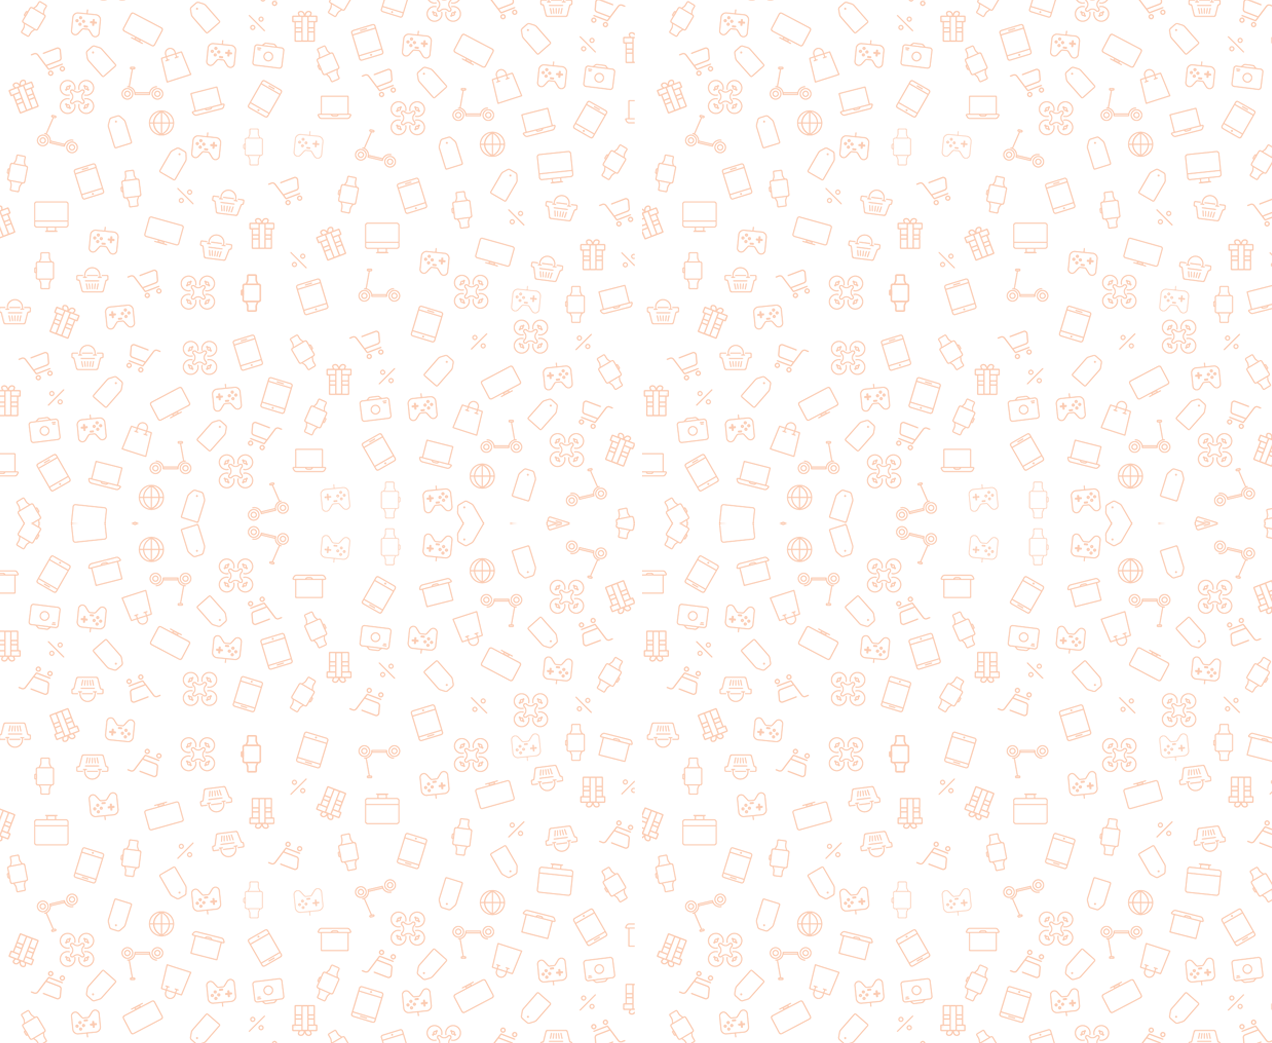
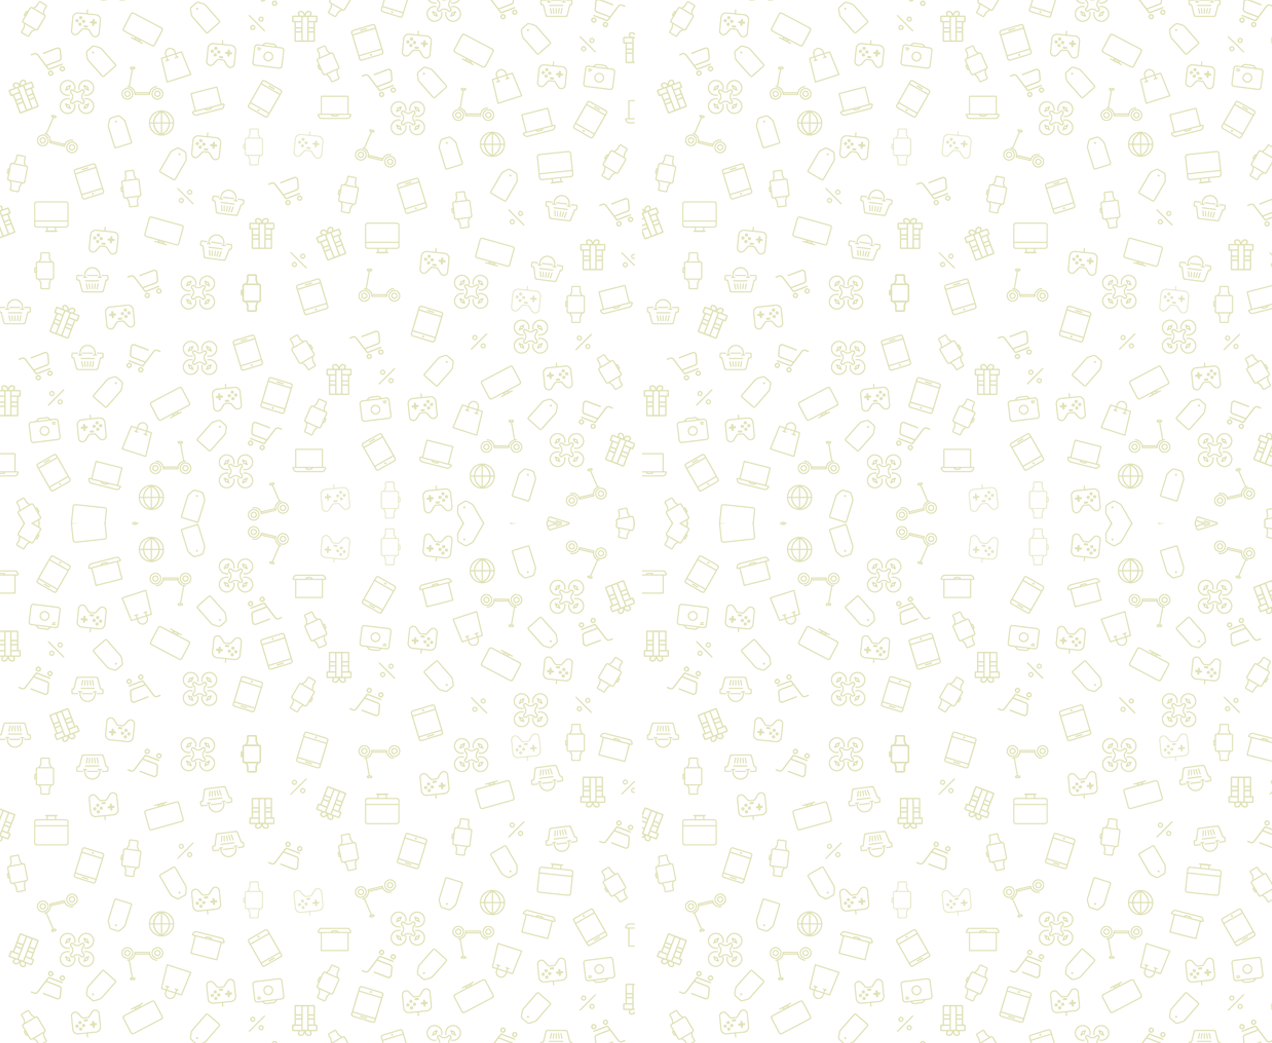
second

diff --git a/index.js b/index.js
@@ -5,5 +5,24 @@
 import {AppRegistry} from 'react-native';
 import App from './src/App';
 import {name as appName} from './app.json';
+import messaging from '@react-native-firebase/messaging';
+import PushNotification, {Importance} from 'react-native-push-notification';
+
+  PushNotification.createChannel(
+    {
+      channelId: "channel-id", // (required)
+      channelName: "My channel", // (required)
+      channelDescription: "A channel to categorise your notifications", // (optional) default: undefined.
+      playSound: false, // (optional) default: true
+      soundName: "default", // (optional) See `soundName` parameter of `localNotification` function
+      importance: Importance.HIGH, // (optional) default: Importance.HIGH. Int value of the Android notification importance
+      vibrate: true, // (optional) default: true. Creates the default vibration pattern if true.
+    },
+    (created) => console.log(`createChannel returned '${created}'`) // (optional) callback returns whether the channel was created, false means it already existed.
+  );
+// Register background handler
+messaging().setBackgroundMessageHandler(async remoteMessage => {
+  console.log('Message handled in the background!', remoteMessage);
+});
 
 AppRegistry.registerComponent(appName, () => App);

diff --git a/src/route.js b/src/route.js
@@ -37,7 +37,7 @@ const MyTheme = {
   ...DefaultTheme,
   colors: {
     ...DefaultTheme.colors,
-    card:'#f79e10',
+    card:'#a2a725',
     background:'white',
     text:'#000000'
   }
@@ -46,7 +46,7 @@ const darkTheme = {
   ...DarkTheme,
   colors: {
     ...DarkTheme.colors,
-    card:'#f79e10',
+    card:'#a2a725',
     background:'#404040',
     text:'#ffffff'
   }
